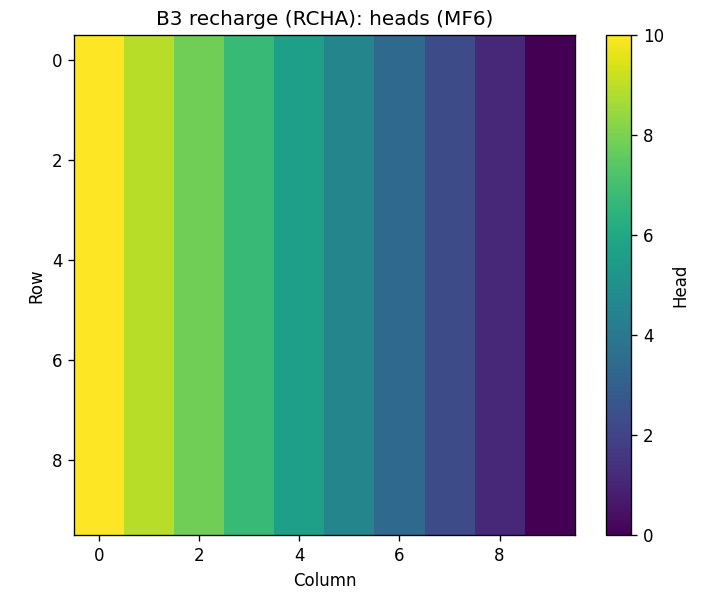
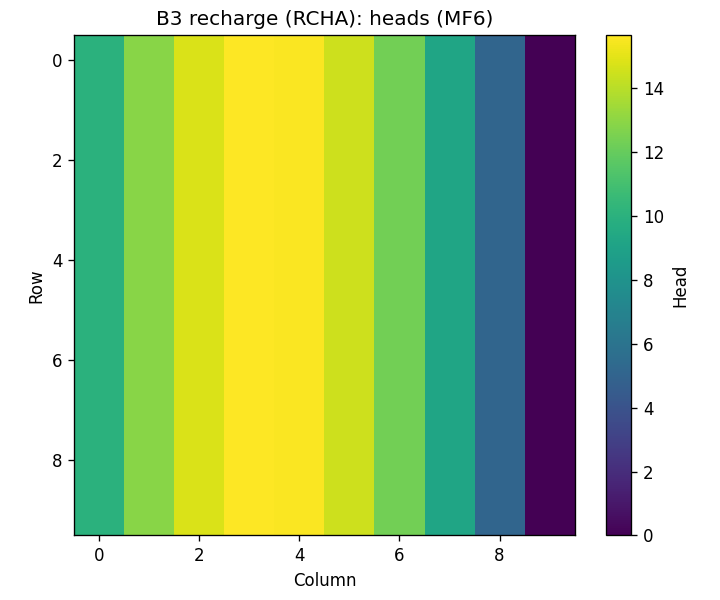
2026.04.26 22-53s

diff --git a/scripts/build_mf6_03_recharge.py b/scripts/build_mf6_03_recharge.py
@@ -226,7 +226,7 @@ def parse_args() -> argparse.Namespace:
     parser.add_argument("--workspace", type=Path, default=WORKSPACE)
     parser.add_argument("--sim-name", default=SIM_NAME)
     parser.add_argument("--gwf-name", default=GWF_NAME)
-    parser.add_argument("--recharge-rate", type=float, default=1.0e-4)
+    parser.add_argument("--recharge-rate", type=float, default=1.0e-2)
     return parser.parse_args()
 
 
